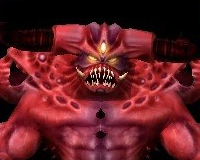
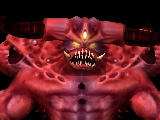
added demons and elementals creatures images (see in comments of CreatureAliases)

diff --git a/Editor/src/main/java/sfgamedataeditor/common/cache/icons/aliases/CreaturesAliases.java b/Editor/src/main/java/sfgamedataeditor/common/cache/icons/aliases/CreaturesAliases.java
@@ -59,21 +59,6 @@ public class CreaturesAliases extends AbstractIconPathAlias {
         addAlias("2269.png", "125.png");
         addAlias("2270.png", "125.png");
 
-        // Mighty elf titan/Dark treant/Elf titan - 1/Elf titan - 2
-        addAlias("2283.png", "2010.png");
-        addAlias("1079.png", "2010.png");
-        addAlias("2508.png", "2010.png");
-
-        // Uthar Griffonsteel - 1/ Uthar Griffonsteel - 2/Dark griffonrider
-        // Mighty human titan/Human titan - 1/Human titan - 2/Griffon
-        addAlias("1228.png", "1228.png");
-        addAlias("1388.png", "1228.png");
-        addAlias("1363.png", "1228.png");
-        addAlias("2284.png", "1228.png");
-        addAlias("1099.png", "1228.png");
-        addAlias("2507.png", "1228.png");
-        addAlias("1182.png", "1228.png");
-
         // Undead goblin - 1/2/3/4/5/6/7/8/9/10/11
         addAlias("162.png", "161.png");
         addAlias("593.png", "161.png");
@@ -201,11 +186,110 @@ public class CreaturesAliases extends AbstractIconPathAlias {
         // Tyrgar brannon - 1/Tyrgar brannon - 2
         addAlias("634.png", "633.png");
 
+        addElementalsAliases();
+        addDemonsAliases();
         addBalisisksAliases();
         addBeastmanAliases();
         addBeetlesAliases();
         addBladesAliases();
         addBriarwolvesAliases();
+    }
+
+    private void addElementalsAliases() {
+        // Earth elemental - 1/2/3/4/5/6/7/8/9/10/11/12/13/14/15/16/17
+        // Servant of the deep
+        addAlias("770.png", "589.png");
+        for (int i = 815; i <= 822; ++i) {
+            addAlias(String.valueOf(i) + ".png", "589.png");
+        }
+        for (int i = 2208; i <= 2211; ++i) {
+            addAlias(String.valueOf(i) + ".png", "589.png");
+        }
+        for (int i = 2289; i <= 2291; ++i) {
+            addAlias(String.valueOf(i) + ".png", "589.png");
+        }
+        addAlias("771.png", "589.png");
+
+        // Burning sacrifice/Fire elemental - 1/2/3/4/5/6/7/8/9/10/11/12/13/14/15/16/17/18/19/20
+        addAlias("590.png", "2739.png");
+        addAlias("768.png", "2739.png");
+        for (int i = 799; i <= 806; ++i) {
+            addAlias(String.valueOf(i) + ".png", "2739.png");
+        }
+        addAlias("1187.png", "2739.png");
+        addAlias("1404.png", "2739.png");
+        addAlias("1804.png", "2739.png");
+        for (int i = 2212; i <= 2215; ++i) {
+            addAlias(String.valueOf(i) + ".png", "2739.png");
+        }
+        addAlias("2287.png", "2739.png");
+        addAlias("2288.png", "2739.png");
+        addAlias("2292.png", "2739.png");
+    }
+
+    private void addDemonsAliases() {
+        // Dwarf titan - 1/Mighty dwarf titan/Dwarf titan - 2/Bank guard
+        addAlias("2282.png", "1100.png");
+        addAlias("2509.png", "1100.png");
+        addAlias("2631.png", "1100.png");
+
+        // Orc titan - 1/Mighty orc titan/Orc titan - 2
+        addAlias("2285.png", "1047.png");
+        addAlias("2510.png", "1047.png");
+
+        // Troll titan - 1/Mighty troll titan/Troll titan - 2
+        addAlias("2286.png", "1098.png");
+        addAlias("2511.png", "1098.png");
+
+        // Darkelf titan - 1/Mighty darkelf titan/Dark elf titan - 2
+        addAlias("2281.png", "1098.png");
+        addAlias("2512.png", "1098.png");
+
+        // Mighty elf titan/Dark treant/Elf titan - 1/Elf titan - 2/Treant - 1/Treant - 2
+        addAlias("2283.png", "2010.png");
+        addAlias("1079.png", "2010.png");
+        addAlias("2508.png", "2010.png");
+        addAlias("2391.png", "2010.png");
+        addAlias("2867.png", "2010.png");
+
+        // Uthar Griffonsteel - 1/ Uthar Griffonsteel - 2/Dark griffonrider
+        // Mighty human titan/Human titan - 1/Human titan - 2/Griffon
+        // Dark griffon rider/Griffon rider
+        addAlias("1228.png", "1228.png");
+        addAlias("1388.png", "1228.png");
+        addAlias("1363.png", "1228.png");
+        addAlias("2284.png", "1228.png");
+        addAlias("1099.png", "1228.png");
+        addAlias("2507.png", "1228.png");
+        addAlias("1182.png", "1228.png");
+        addAlias("2011.png", "1228.png");
+        addAlias("2389.png", "1228.png");
+
+        // Lesser demon/Fire terror/Fireling/Arz'ach/Master of fire/Firespitter/Fireling - 1/Fireling - 2
+        // Red death/Demon lord/Red butcher/Fire demon/Demonic warlord
+        addAlias("997.png", "178.png");
+        addAlias("1805.png", "178.png");
+        addAlias("1053.png", "178.png");
+        addAlias("186.png", "178.png");
+        addAlias("185.png", "178.png");
+        addAlias("174.png", "178.png");
+        addAlias("179.png", "178.png");
+        addAlias("1306.png", "178.png");
+        addAlias("2421.png", "178.png");
+        addAlias("2561.png", "178.png");
+        addAlias("2563.png", "178.png");
+        addAlias("2564.png", "178.png");
+
+        // Ulather/Imprisoned demon lord/The invincible/Underling/Demonic guardian/Strange firecaller
+        // Strange warrior/Arch fire devil/Arch demon
+        addAlias("2768.png", "1069.png");
+        addAlias("2769.png", "1069.png");
+        addAlias("2521.png", "1069.png");
+        addAlias("2332.png", "1069.png");
+        addAlias("2918.png", "1069.png");
+        addAlias("2919.png", "1069.png");
+        addAlias("2420.png", "1069.png");
+        addAlias("2872.png", "1069.png");
     }
 
     private void addBriarwolvesAliases() {
